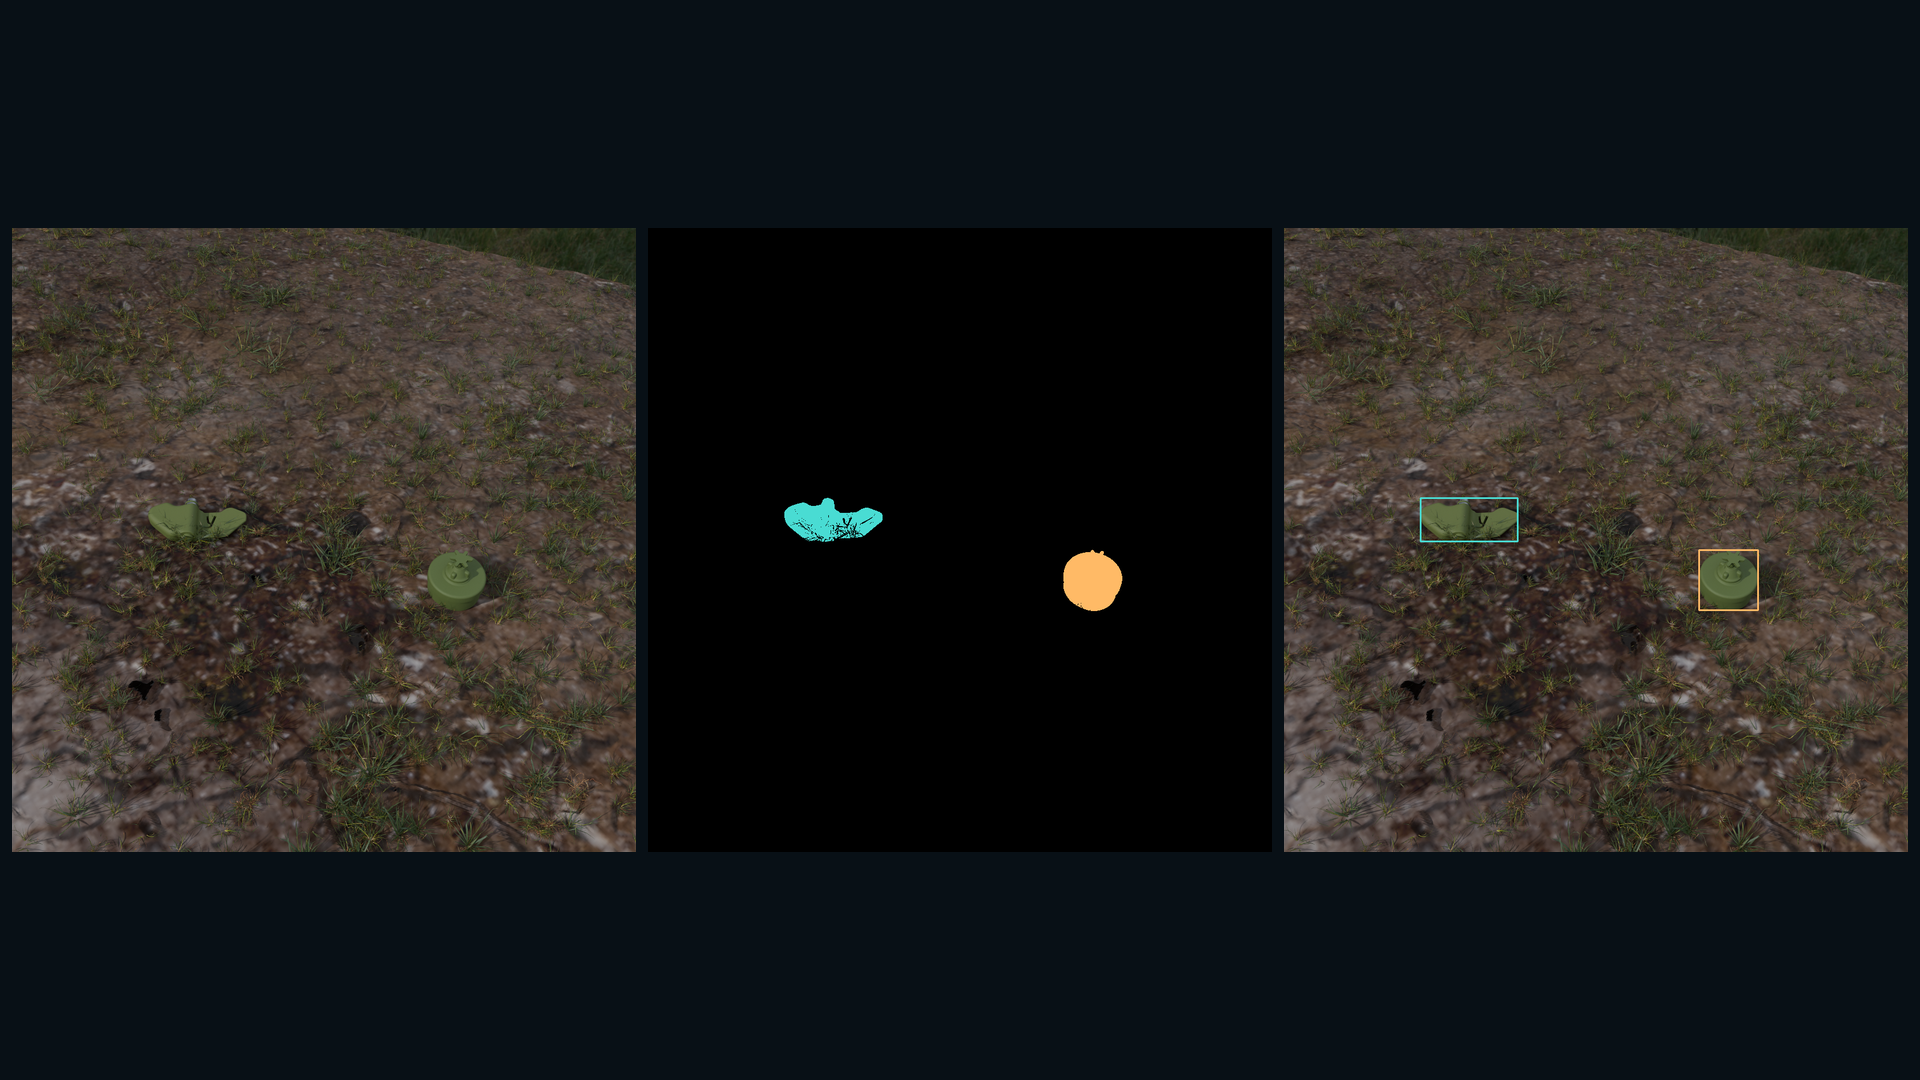
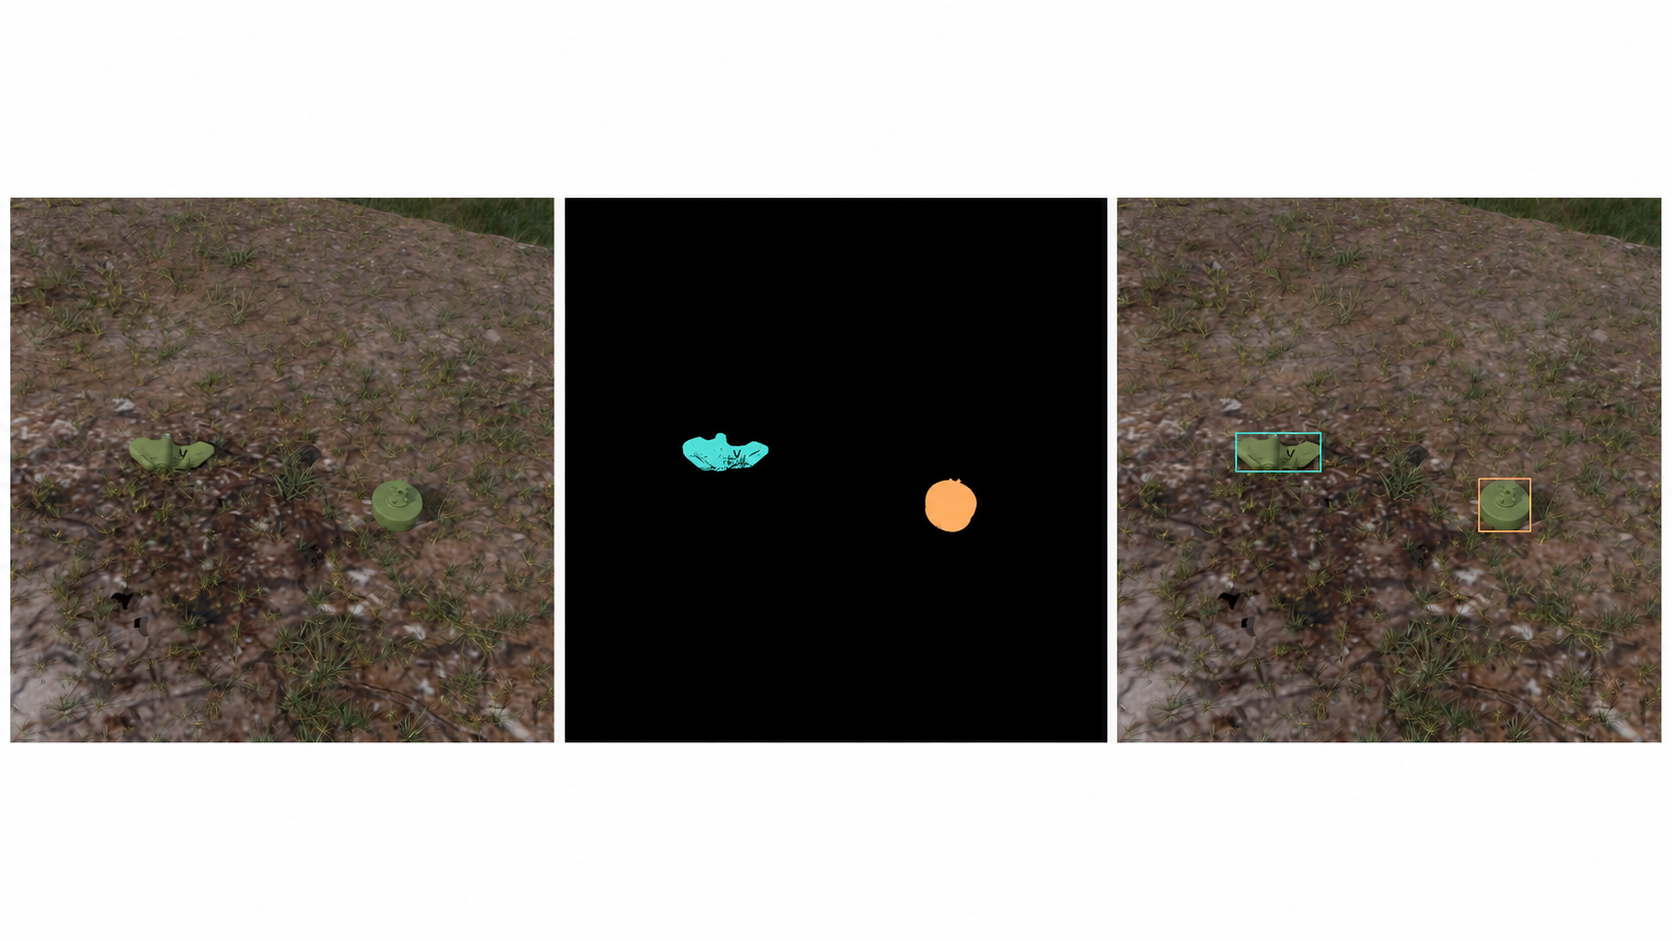
Refine README visuals and conference branding

diff --git a/README.md b/README.md
@@ -2,11 +2,8 @@
 
 <p align="center">
   <a href="https://rma.ac.be/en"><img src="assets/rma_logo.png" alt="Royal Military Academy" height="58"></a>&nbsp;&nbsp;&nbsp;
-  <a href="https://www.kuleuven.be/english/"><img src="assets/ku_leuven_logo.png" alt="KU Leuven" height="58"></a>
-</p>
-
-<p align="center">
-  <a href="https://www.ssrr-ieee.org/"><strong>IEEE SSRR 2026 · Incheon, Korea · 2–4 November 2026</strong></a>
+  <a href="https://www.kuleuven.be/english/"><img src="assets/ku_leuven_logo.png" alt="KU Leuven" height="58"></a>&nbsp;&nbsp;&nbsp;
+  <a href="https://www.ssrr-ieee.org/"><img src="assets/ssrr_logo.webp" alt="IEEE SSRR 2026" height="58"></a>
 </p>
 
 <p align="center">
@@ -30,7 +27,7 @@ Every synthetic configuration exceeds the real baseline on OOD under macro-F1, A
 
 <p align="center">
   <img src="assets/synthetic_rgb_masks_labels.png" alt="Synthetic RGB image, instance masks, and detector labels" width="49%">
-  <img src="assets/ood_detection_example.jpg" alt="Real OOD PMA-2 image and synthetic-trained detector prediction" width="49%">
+  <img src="assets/ood_detection_example.png" alt="Real OOD PMA-2 image and synthetic-trained detector prediction" width="49%">
 </p>
 
 ## Reproduce in seconds (no GPU)
